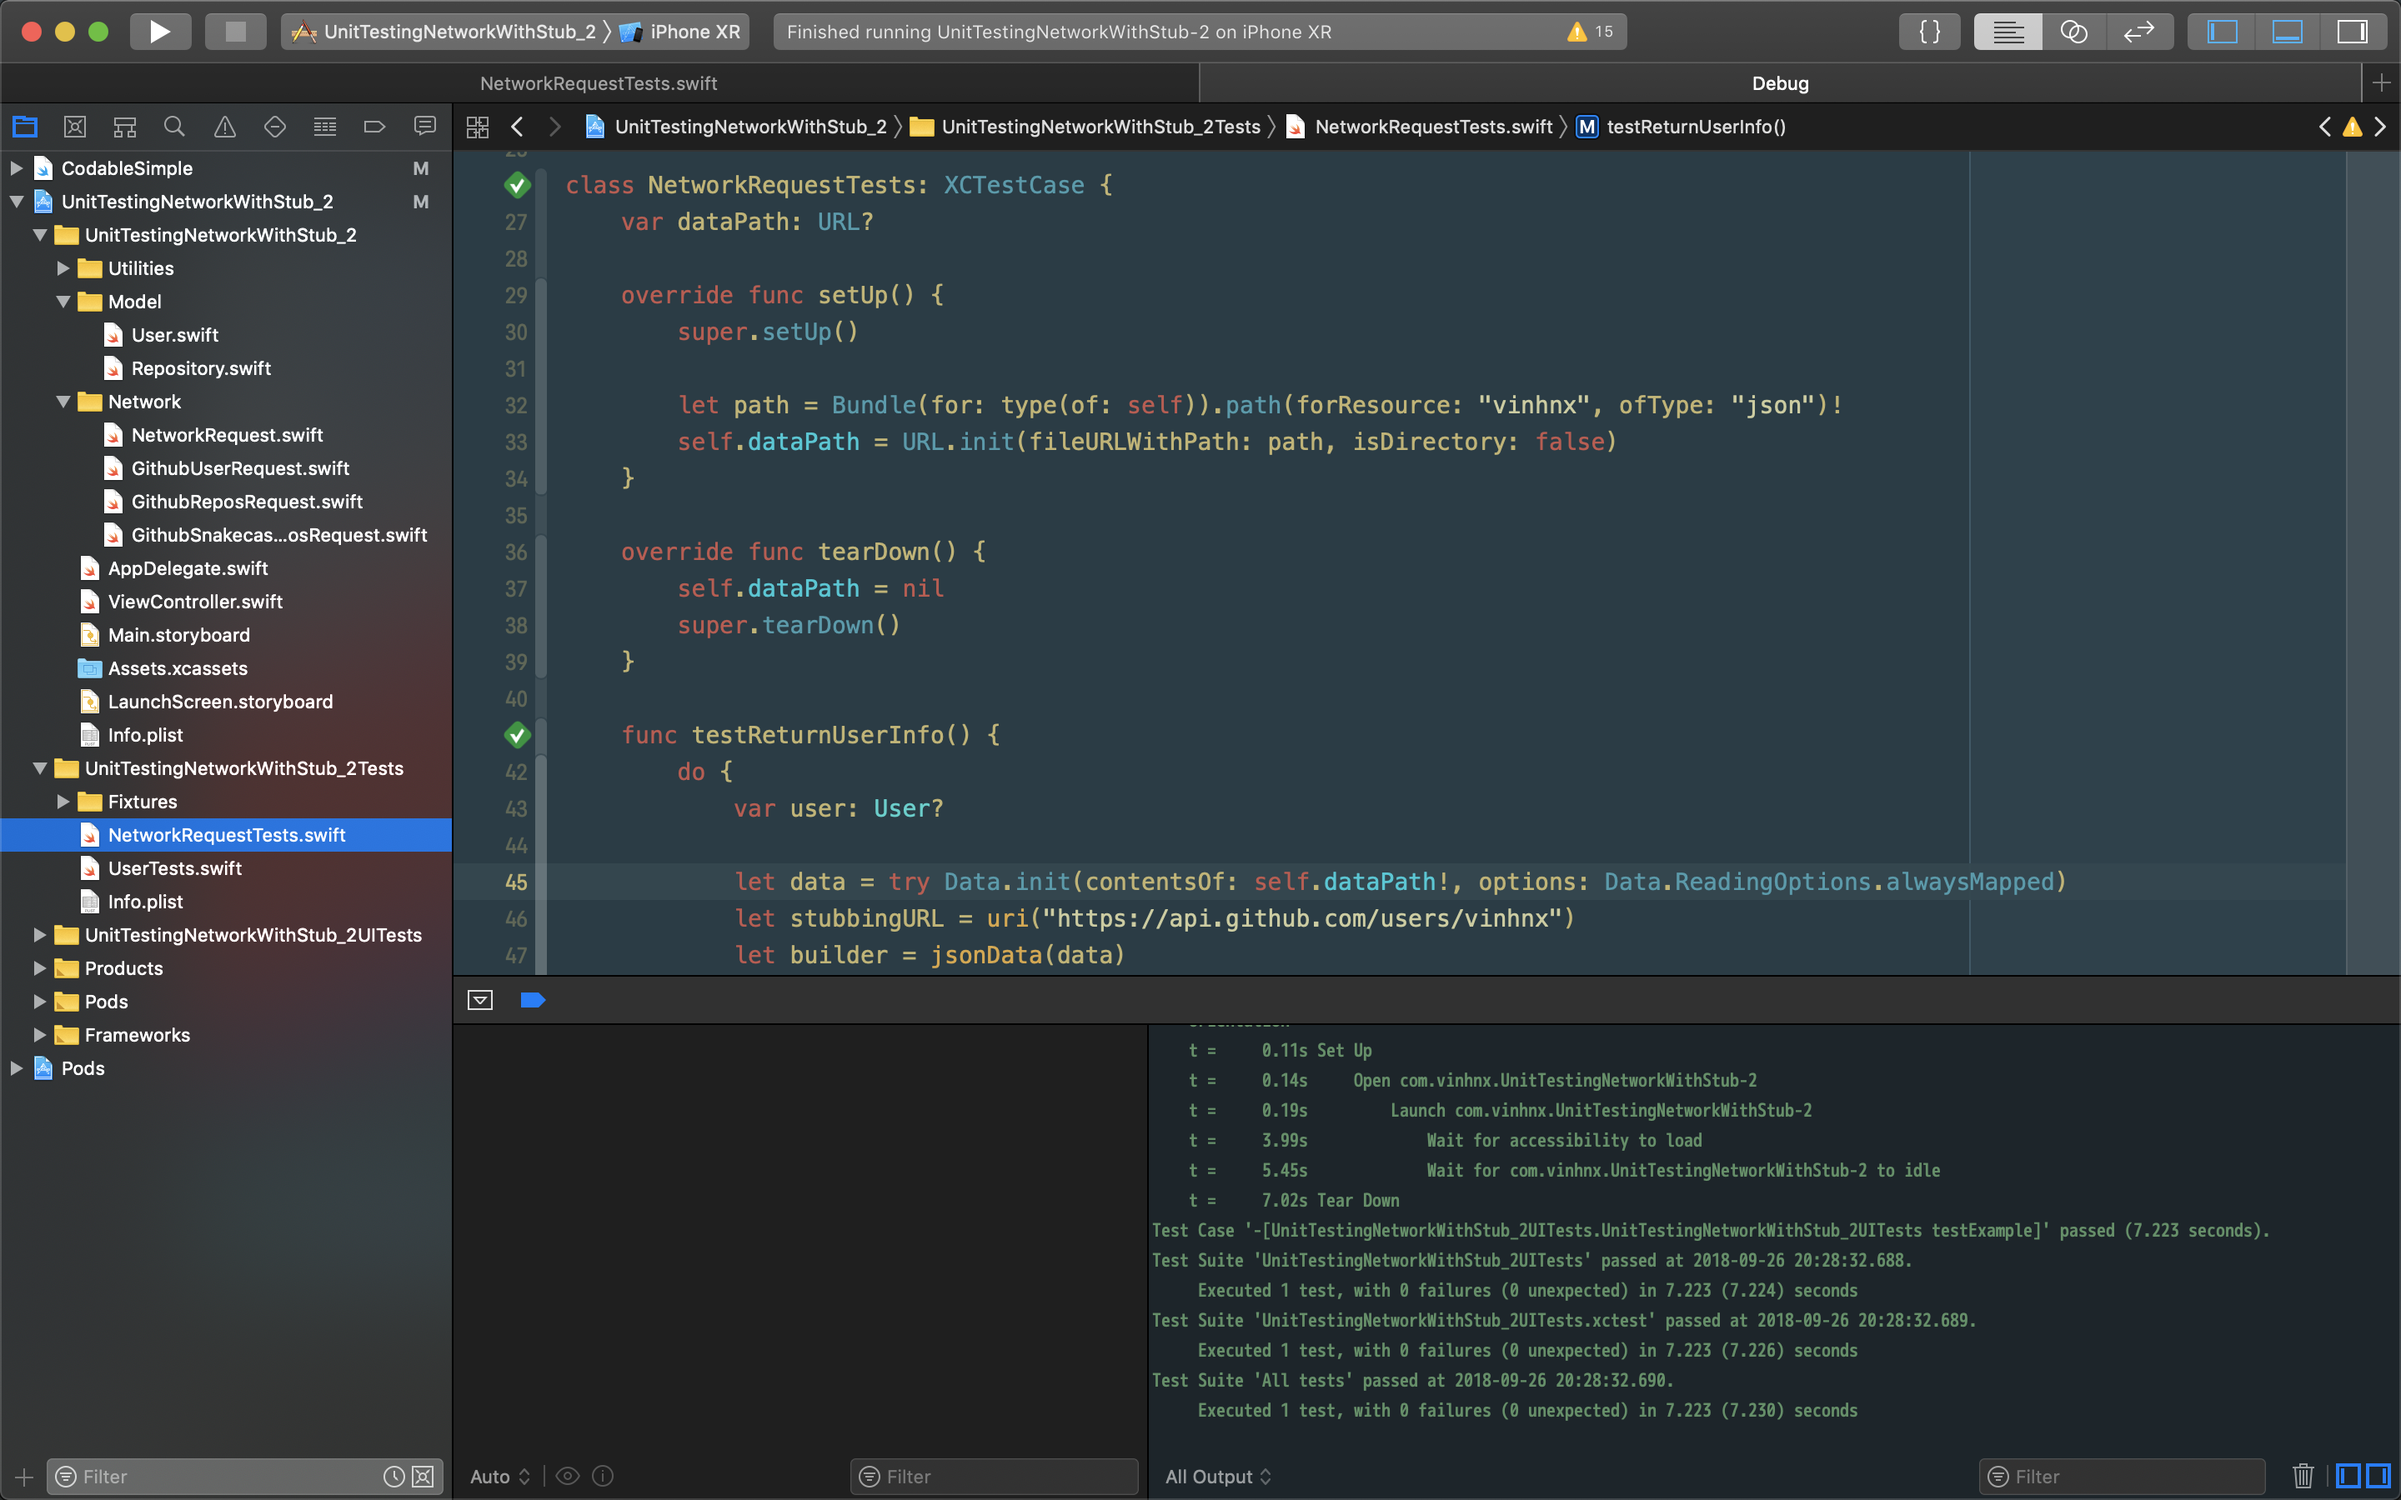
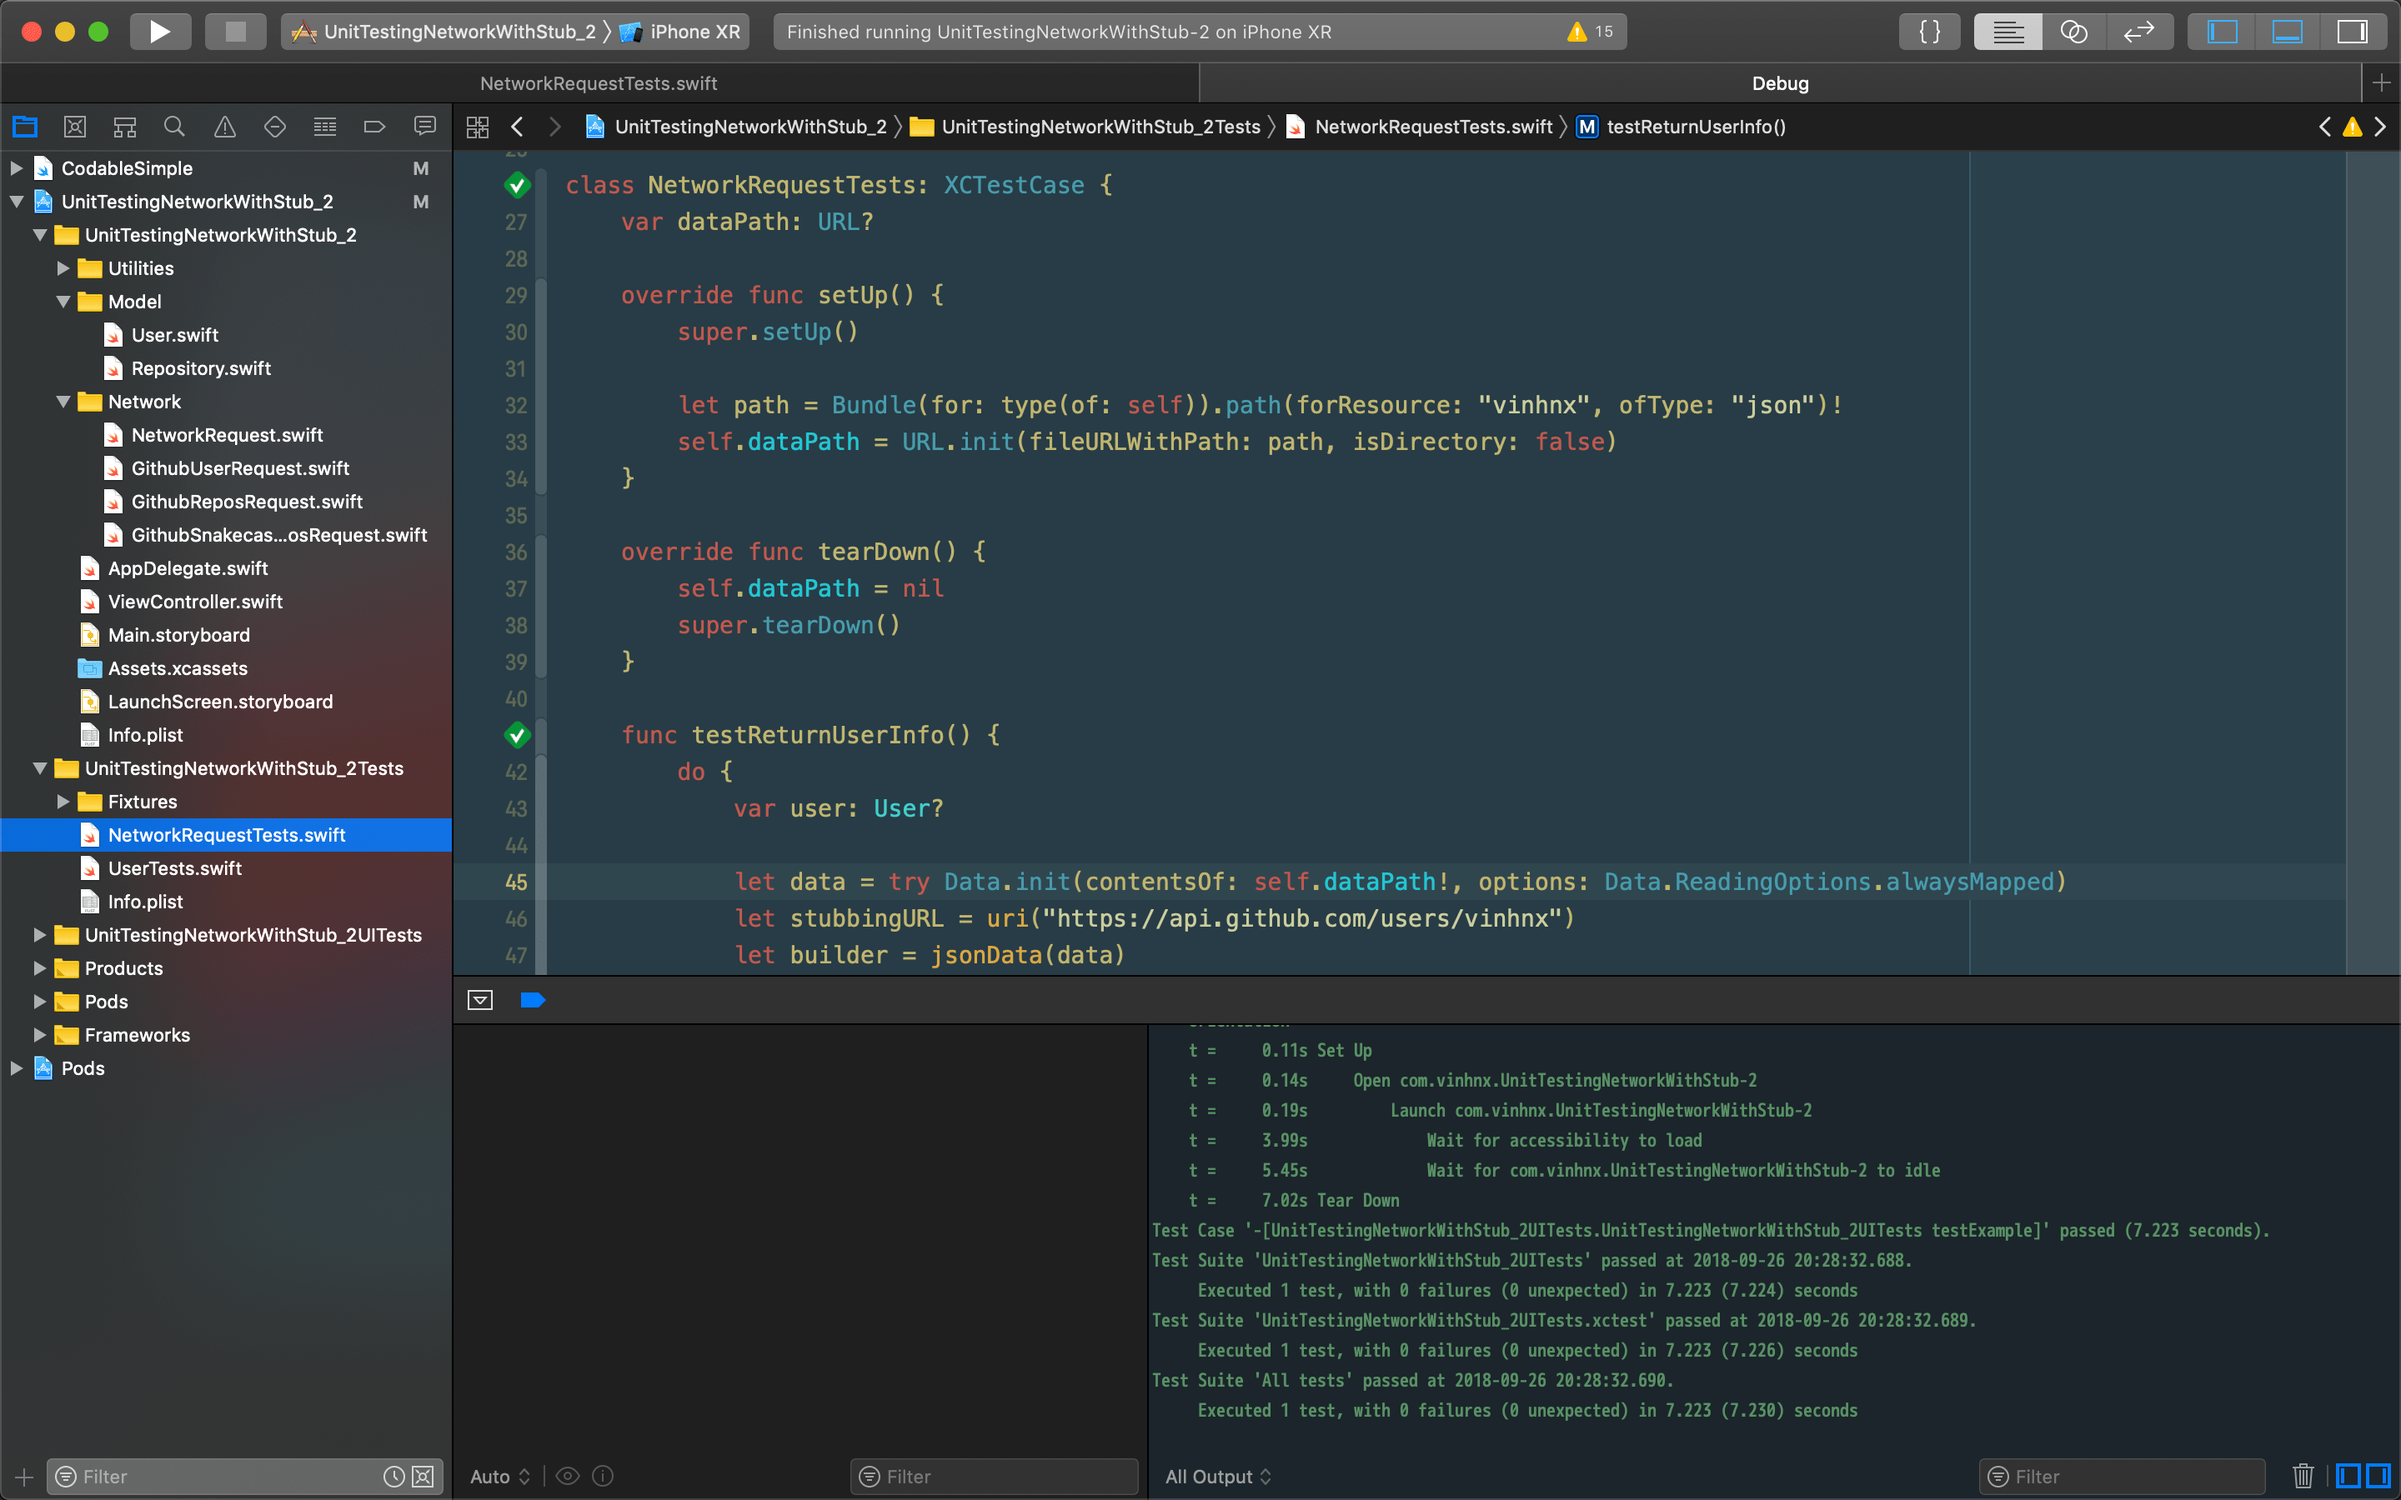
Fix screenshot image extensions

diff --git a/README.md b/README.md
@@ -4,11 +4,11 @@ An easy on the eyes Xcode theme, ported from [Ciapre Sublime Text](https://githu
 
 ## Demo Screenshot
 
-![demo](https://raw.github.com/vinhnx/Ciapre-Xcode-theme/master/screenshot/demo_1.jpg)
+![demo](https://raw.github.com/vinhnx/Ciapre-Xcode-theme/master/screenshot/demo_1.png)
 
-![demo](https://raw.github.com/vinhnx/Ciapre-Xcode-theme/master/screenshot/demo_2.jpg)
+![demo](https://raw.github.com/vinhnx/Ciapre-Xcode-theme/master/screenshot/demo_2.png)
 
-![demo](https://raw.github.com/vinhnx/Ciapre-Xcode-theme/master/screenshot/demo_3.jpg)
+![demo](https://raw.github.com/vinhnx/Ciapre-Xcode-theme/master/screenshot/demo_3.png)
 
 
 ## Scheme
